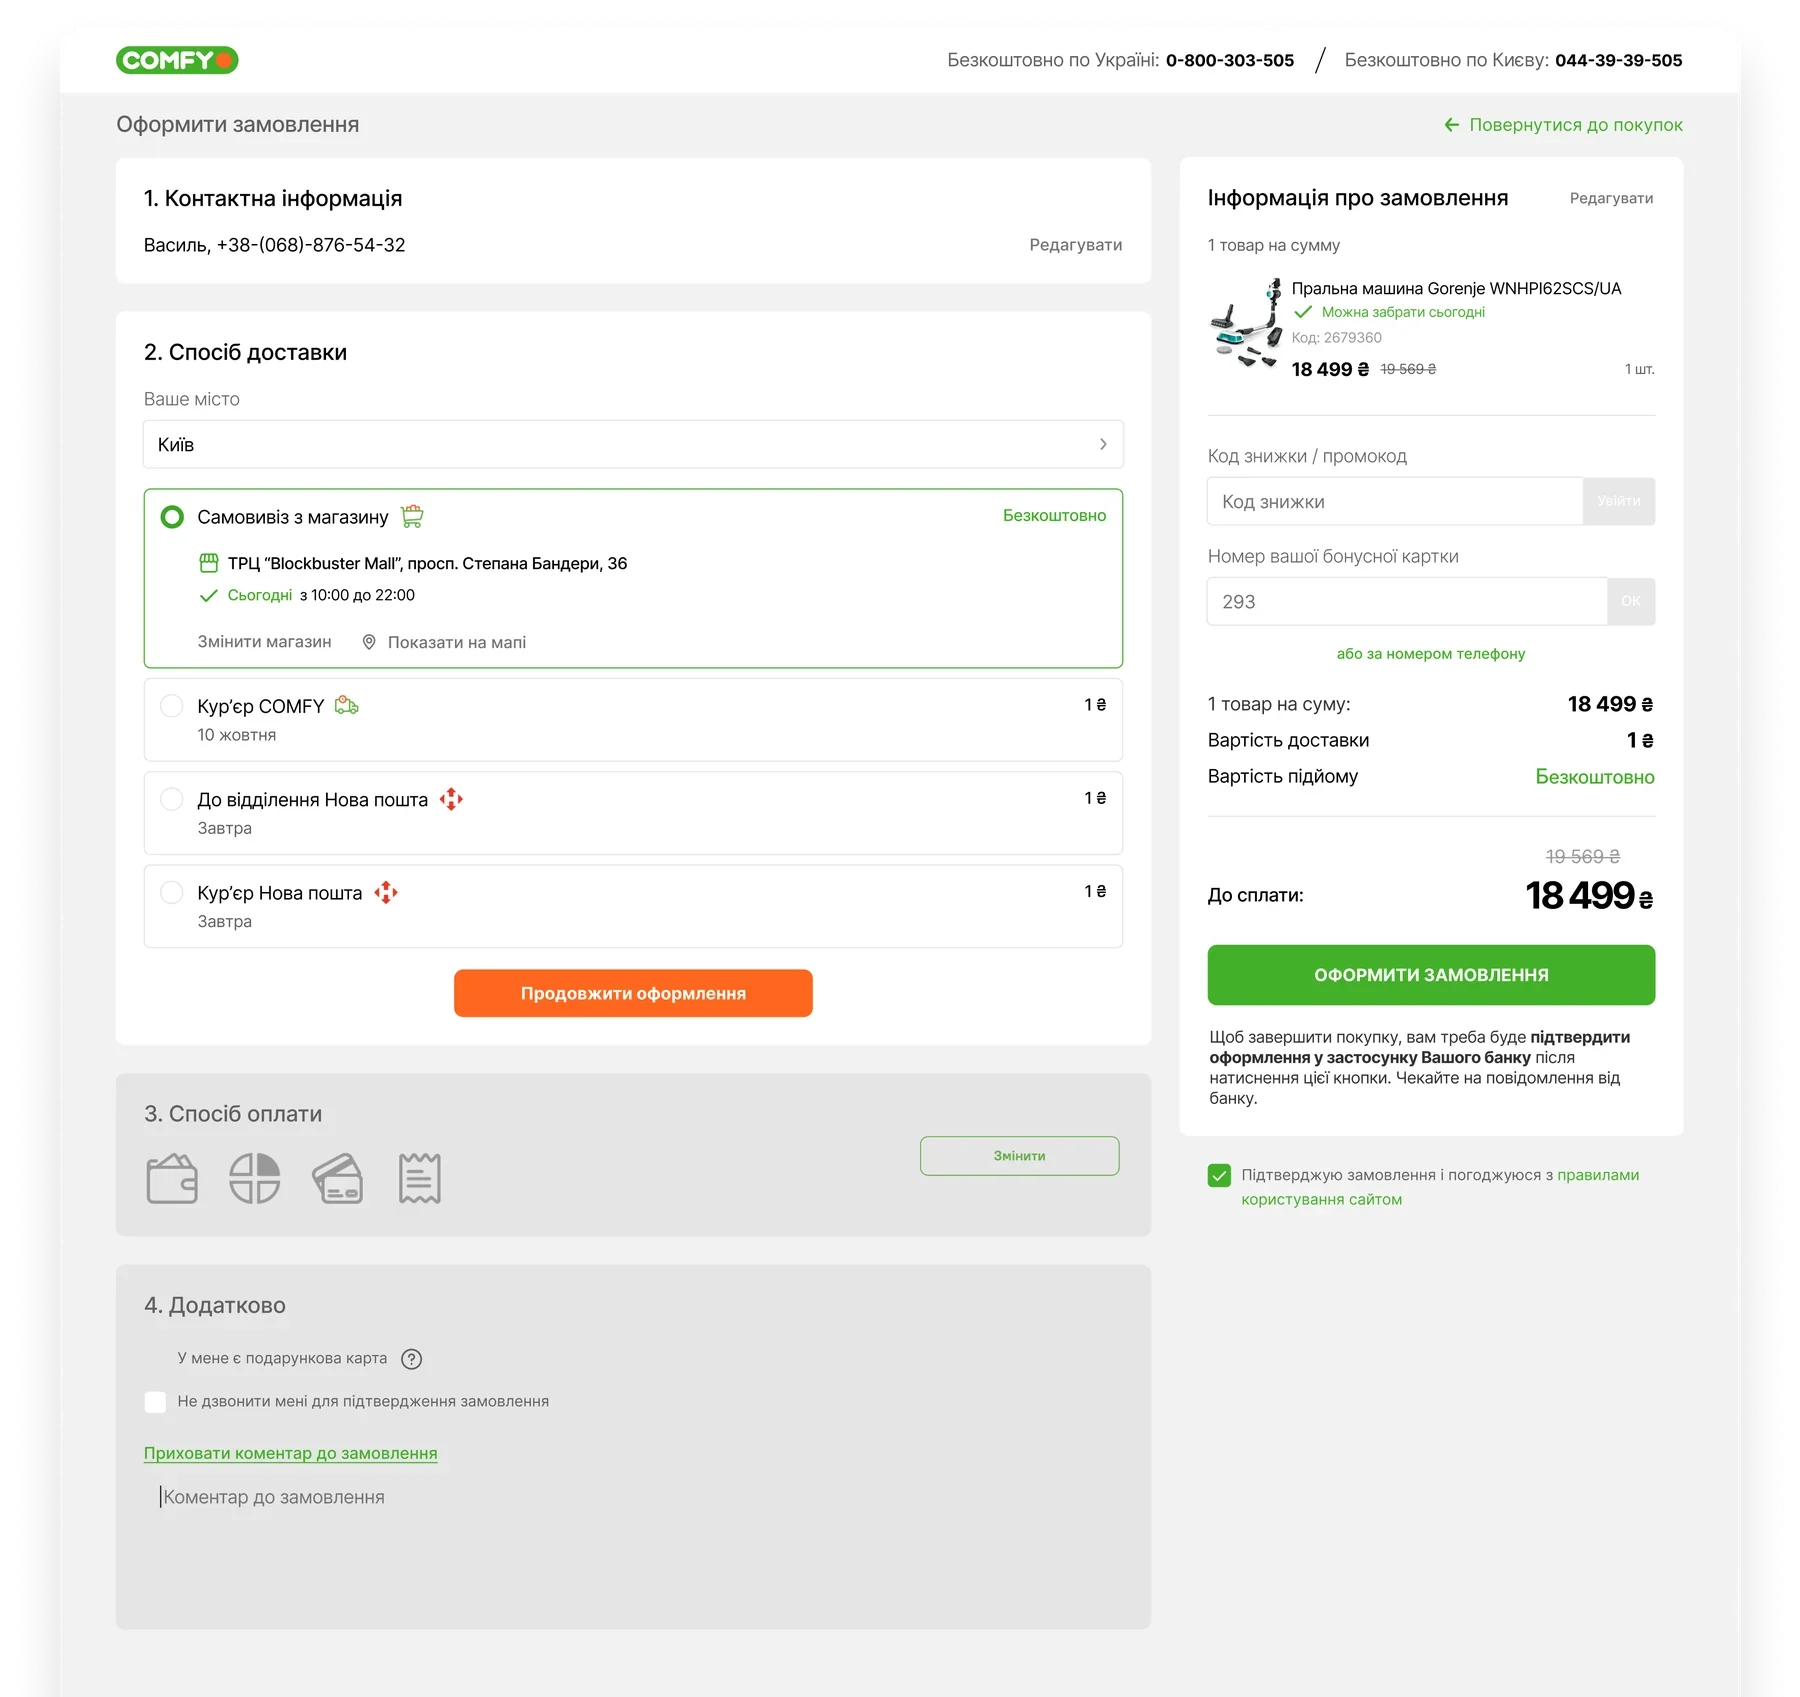
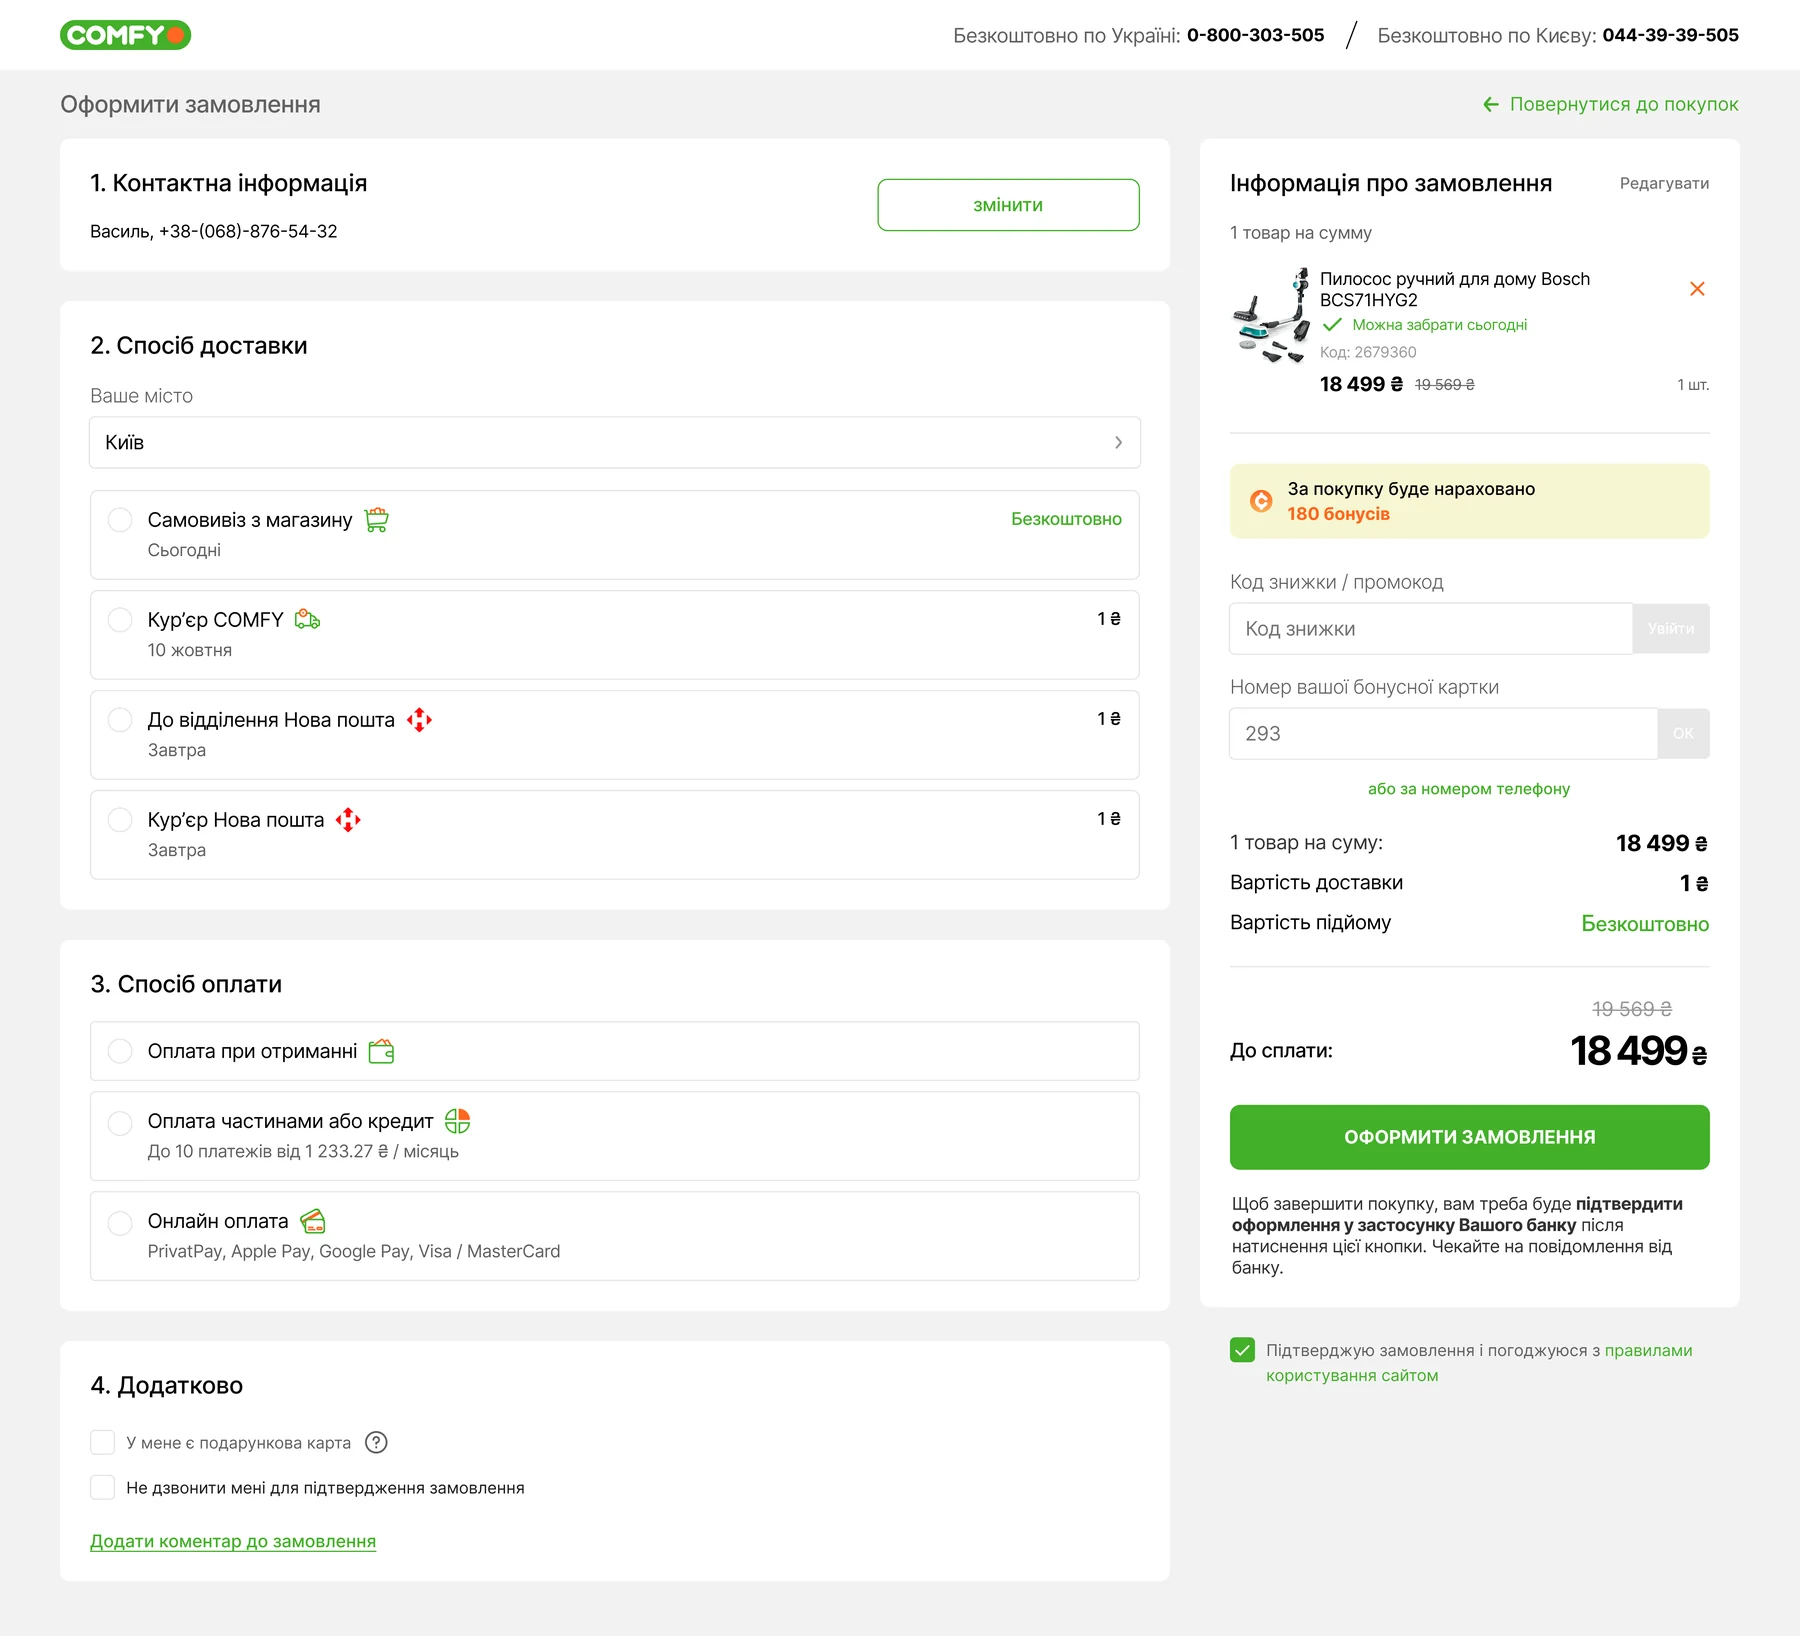
Comfy Deliver: problem 2 with the current checkout (all steps open on desktop, the chosen offer), phone frames cut from the mobile screen; two phones read left to right

diff --git a/ui/kit.css b/ui/kit.css
@@ -1202,7 +1202,8 @@
 .solved__thumb img { border-radius: var(--radius-inner); box-shadow: var(--shadow-shot); }
 .solved__phone { position: absolute; bottom: var(--space-0); right: var(--space-0); width: var(--size-solved-phone); }
 .solved__phone img { display: block; width: var(--size-full); height: auto; filter: var(--filter-phone-shadow); }
-.solved__phone--2 { right: calc(var(--size-solved-phone) - var(--space-28)); bottom: var(--space-12); }
+/* Two phones read left to right: the first sits further left, the second on the corner */
+.solved__shots--2 .solved__phone--1 { right: calc(var(--size-solved-phone) - var(--space-28)); bottom: var(--space-12); }
 @media (max-width: 860px) {
   .solved__before, .solved__step { grid-template-columns: var(--layout-col-1); padding: var(--space-20); border-radius: var(--radius-tile-tablet); }
   .solved__shots { padding: var(--space-0); }
